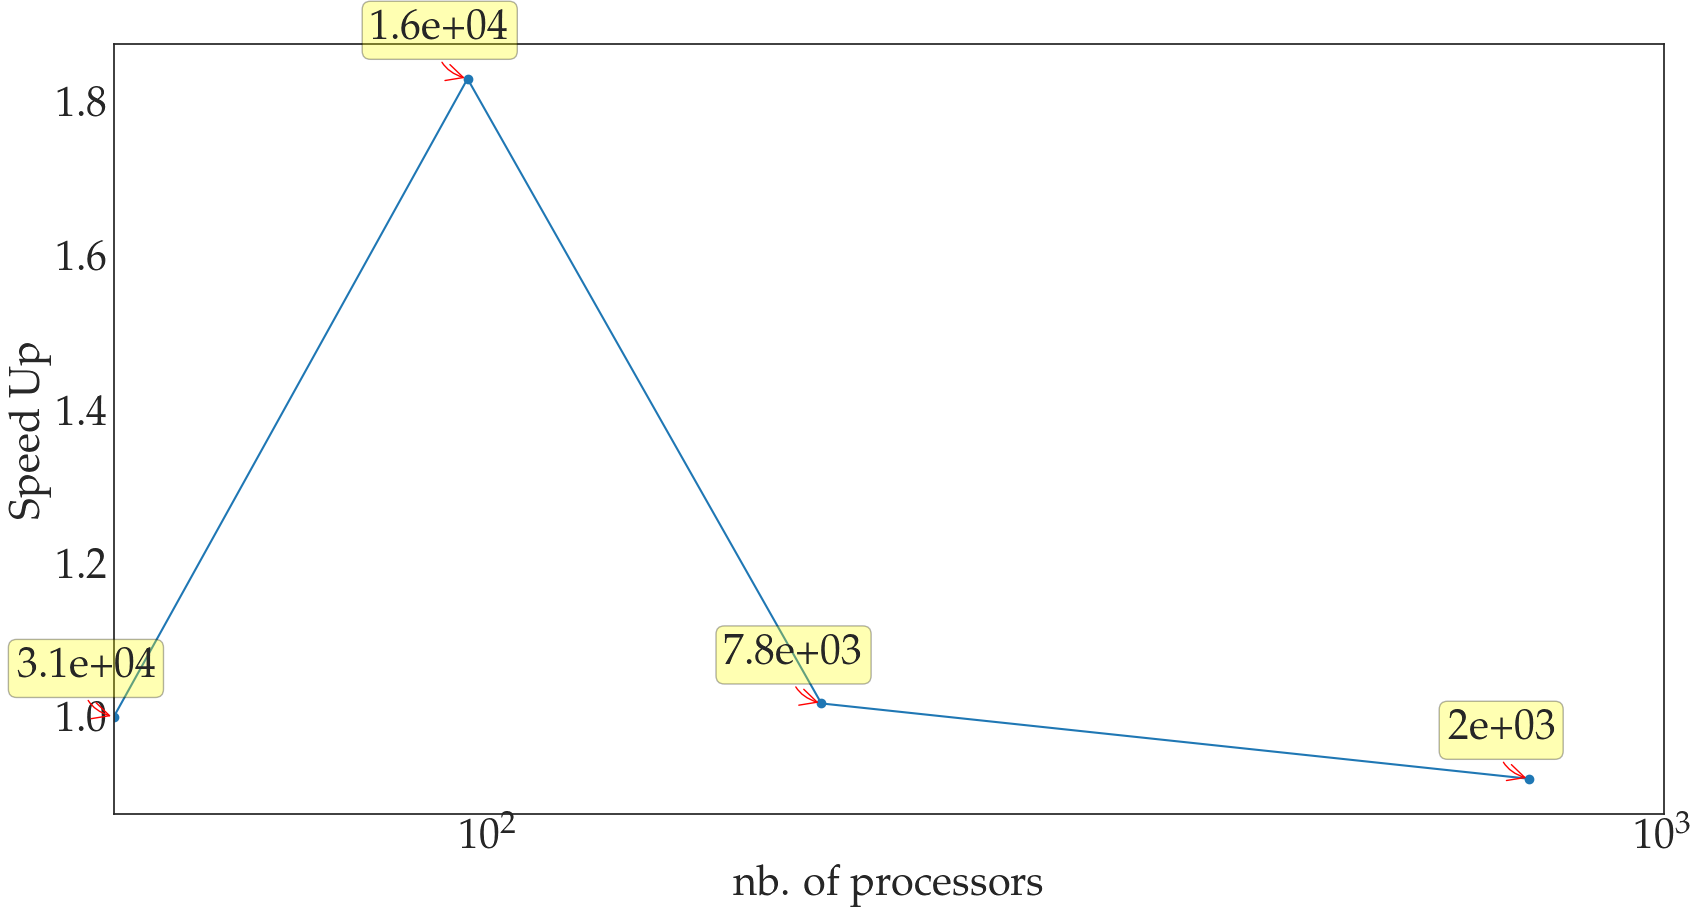
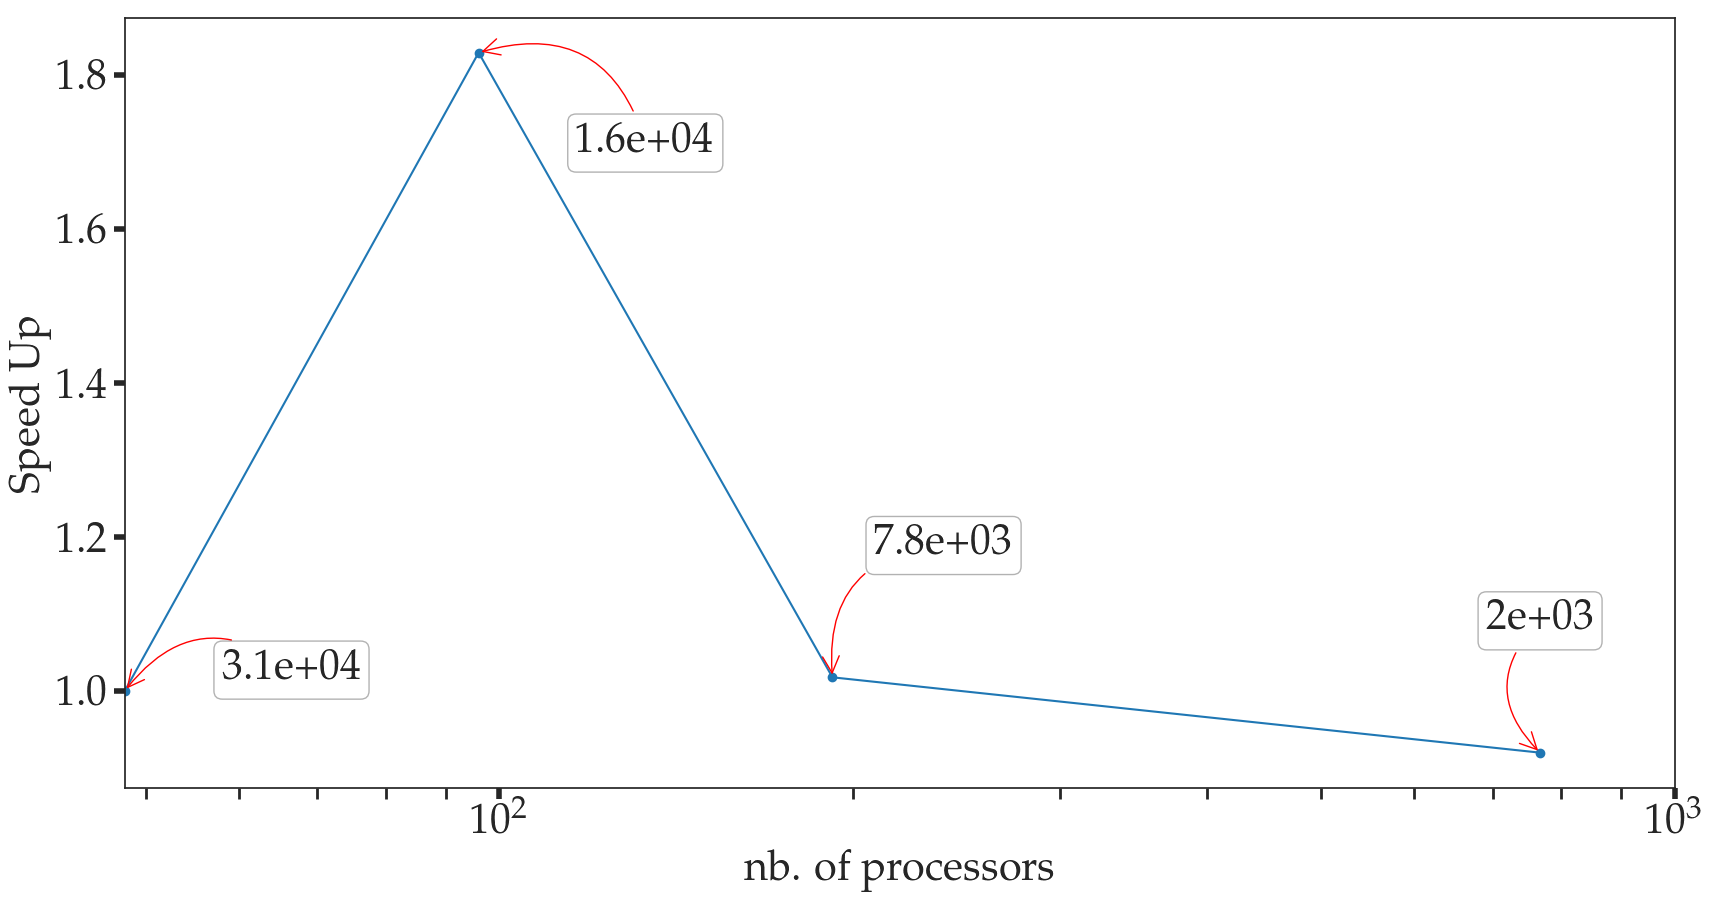
modify annotations

diff --git a/userScalability/occigen.py b/userScalability/occigen.py
@@ -64,24 +64,42 @@ def read_cases():
     ax1.set_ylabel('Speed Up')
     ax1.set_xlim(0,1000)
     #ax1.set_title('annoatations : average nb of cells per proc')
+    ax1.tick_params(axis='both', which='major', direction='out', length=8, width=4)
+    ax1.tick_params(axis='x', which='minor', direction='out', length=8, width=2)
 
     ax2.set_xlabel('nb. of processors')
     ax2.set_ylabel('Parallel Efficiency')
     #ax2.set_title('annoatations : average nb of cells per proc')
     ax2.set_ylim(0,1.2)
     ax2.set_xlim(0,1000)
+    ax2.tick_params(axis='both', which='major', direction='out', length=8, width=4)
+    ax2.tick_params(axis='x', which='minor', direction='out', length=8, width=2)
+
+    offset1=[
+            (120,  0),
+            (120 ,-80),
+            (80, 80),
+            ( 0, 80)
+            ]
+
+    offset2=[
+            (80,  10),
+            (120 ,-40),
+            (80, 80),
+            ( 0, 80)
+            ]
 
     for i in range(len(n_procs)):
         nb_cell_per_proc = 1.5e6 / n_procs[i]
         print nb_cell_per_proc
-        ax1.annotate('%.2g' % nb_cell_per_proc, xy=(n_procs[i], Sp[i]), xytext=(-20,20), 
+        ax1.annotate('%.2g' % nb_cell_per_proc, xy=(n_procs[i], Sp[i]), xytext=offset1[i], 
             textcoords='offset points', ha='center', va='bottom',
-            bbox=dict(boxstyle='round,pad=0.2', fc='yellow', alpha=0.3),
+            bbox=dict(boxstyle='round,pad=0.2', fc='none', alpha=0.3),
             arrowprops=dict(arrowstyle='->', connectionstyle='arc3,rad=0.5', 
                             color='red'))
-        ax2.annotate('%.2g' % nb_cell_per_proc, xy=(n_procs[i], E[i]), xytext=(-20,20), 
+        ax2.annotate('%.2g' % nb_cell_per_proc, xy=(n_procs[i], E[i]), xytext=offset2[i], 
             textcoords='offset points',
-            bbox=dict(boxstyle='round,pad=0.2', fc='yellow', alpha=0.3),
+            bbox=dict(boxstyle='round,pad=0.2', fc='none', alpha=0.3),
             arrowprops=dict(arrowstyle='->', connectionstyle='arc3,rad=0.5', 
                             color='red'))
 
